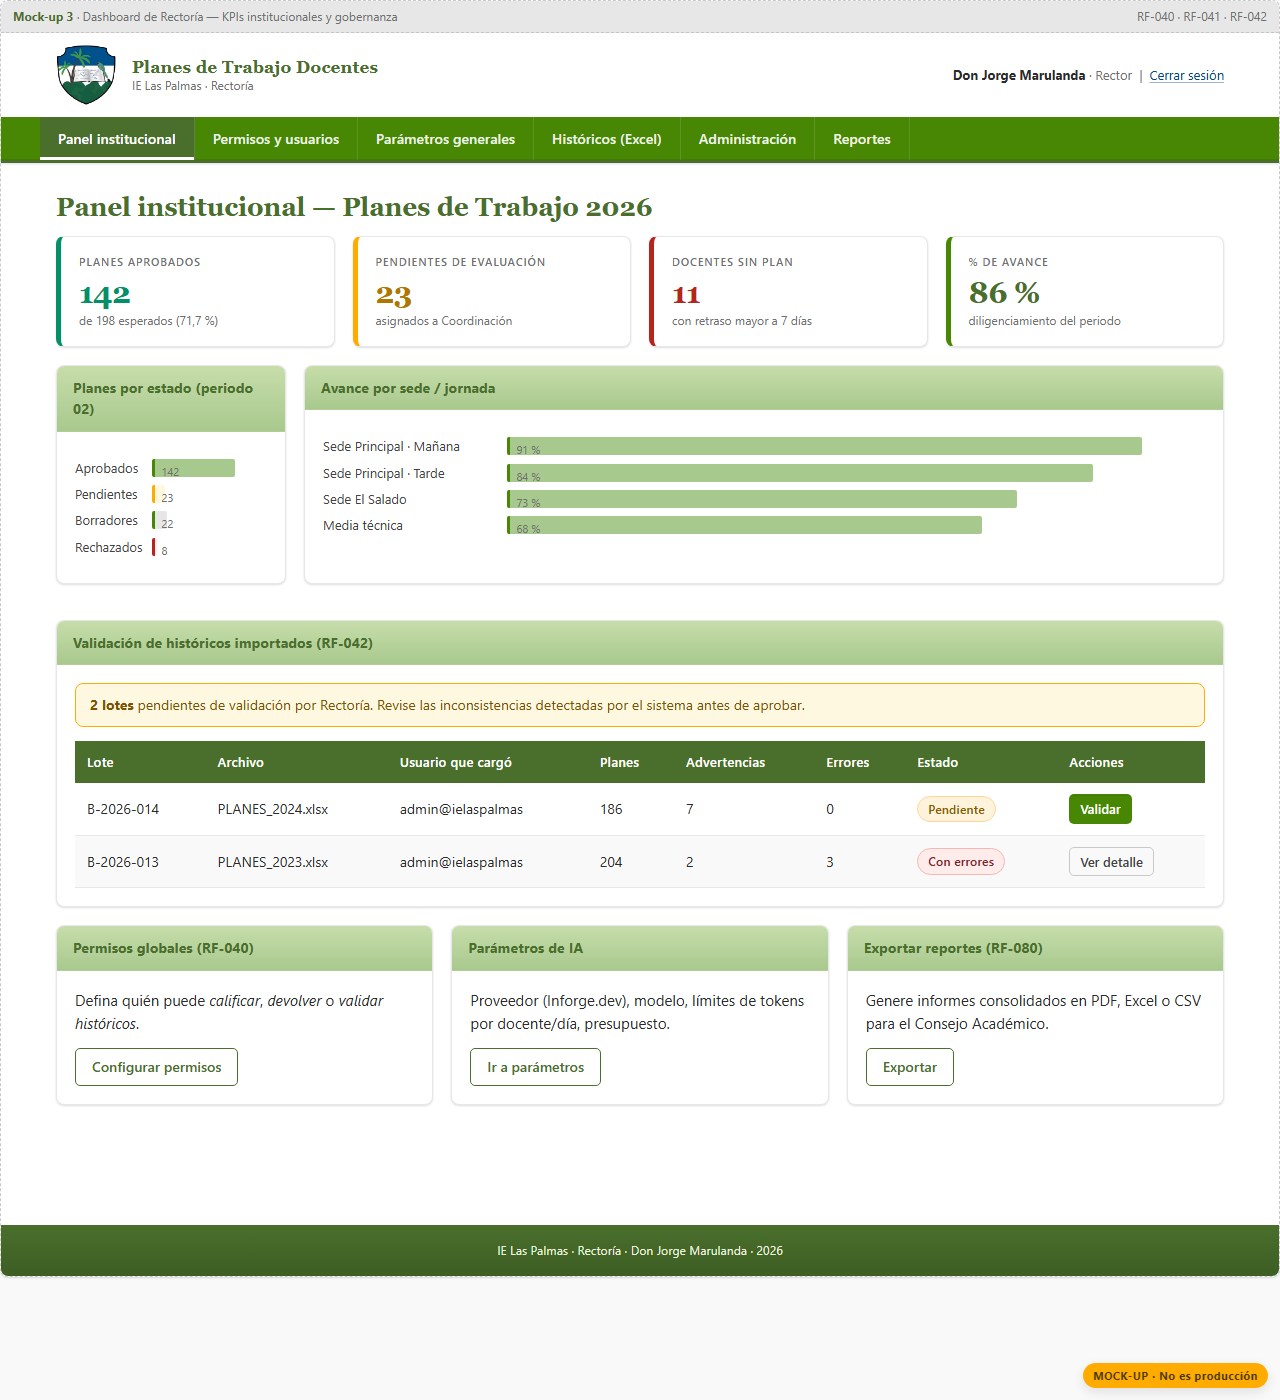
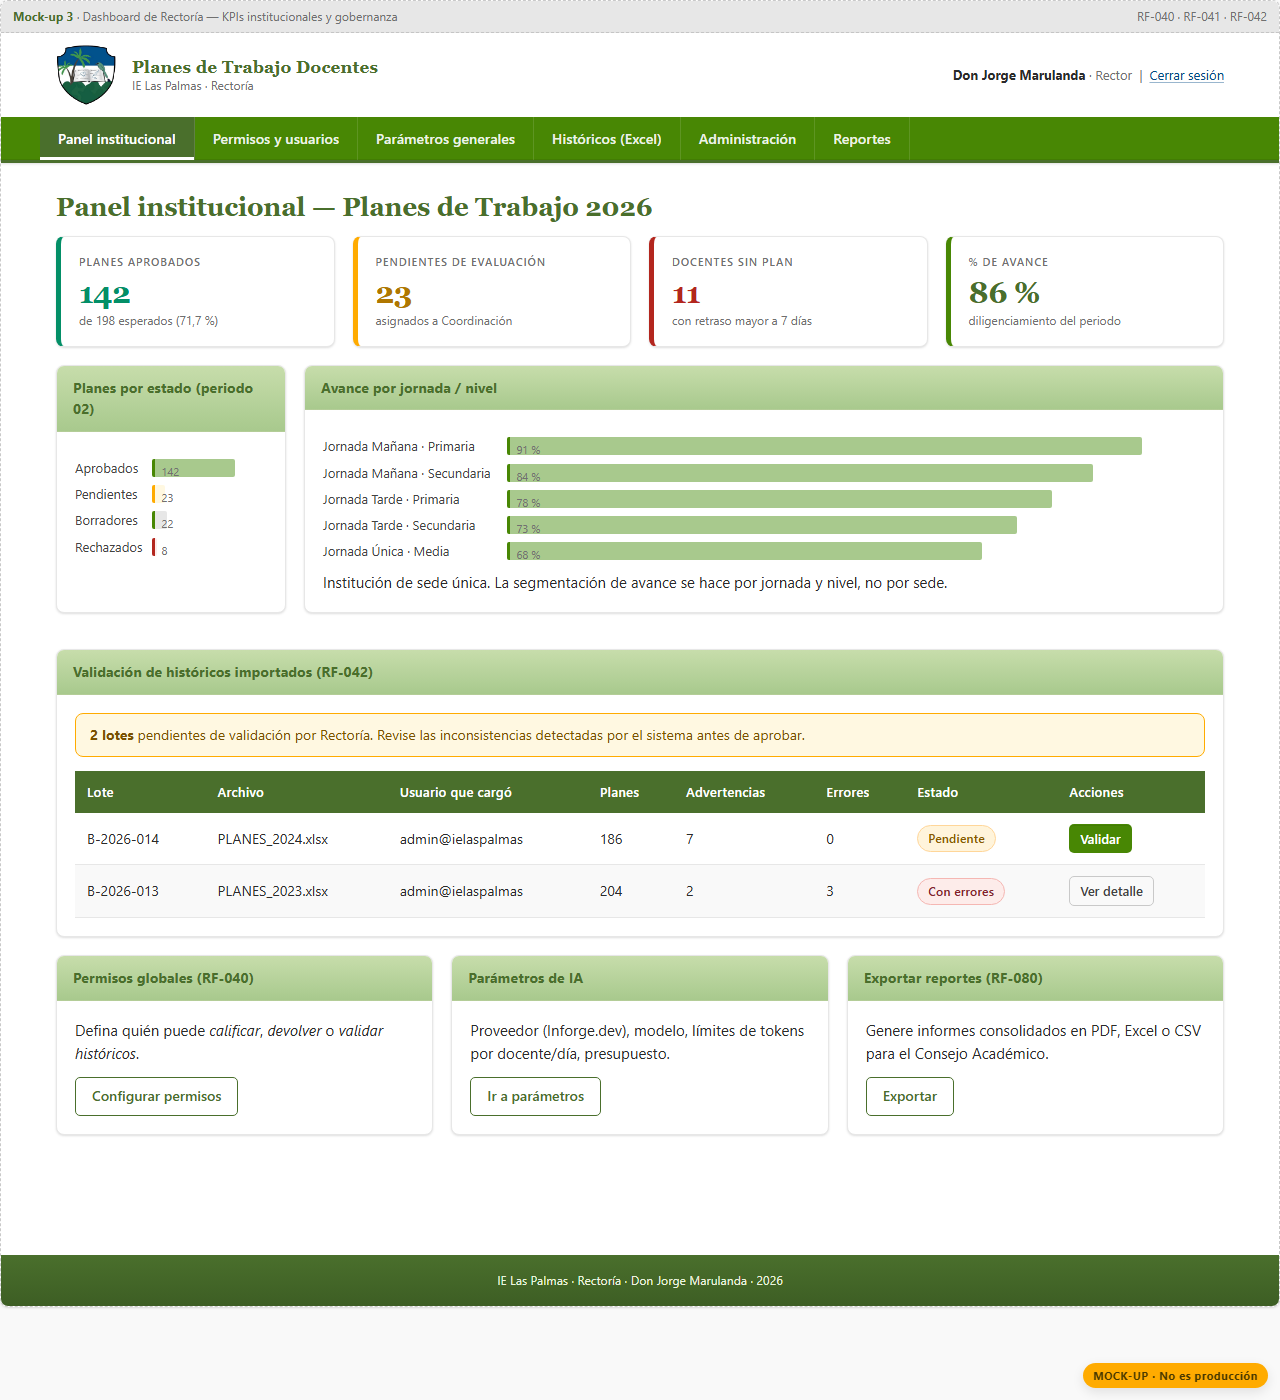
Corrige sede unica en Rectoria + estiliza inputs en tablas/DUA
- Dashboard Rectoria: reemplaza 'Avance por sede/jornada' (lista sedes
  inexistentes) por 'Avance por jornada/nivel' (sede unica, segmentacion
  por jornada y nivel)
- estilos-base.css: estilos globales para input/select/textarea fuera
  de .campo (tablas, celdas inline)
- ie-tabla: textarea min-height 56px, input text/number width fixed,
  btn-ia compacto
- Editor Plan: elimina estilos inline redundantes en tabla indicadores
- Checkbox DUA: accent-color verde + cursor pointer + label hit-area

Changed region(s): [[0.0312, 0.2764, 0.9688, 0.7986], [0.0, 0.86, 1.0, 0.9521]]

diff --git a/estilos-base.css b/estilos-base.css
@@ -320,6 +320,13 @@ a:hover { color: #003160; text-decoration-color: var(--ie-azul); }
 .ie-tabla tr:nth-child(even) td { background: var(--ie-gris-1); }
 .ie-tabla tbody tr { transition: background var(--transicion-rapida); }
 .ie-tabla tbody tr:hover td { background: var(--ie-azul-suave); }
+/* Inputs/textareas dentro de tablas: compactos y de ancho completo */
+.ie-tabla textarea { min-height: 56px; width: 100%; }
+.ie-tabla input[type="text"] { width: 100%; }
+.ie-tabla input[type="number"] { width: 72px; }
+.ie-tabla select { width: 100%; }
+/* Botones de IA dentro de tabla más pequeños */
+.ie-tabla .btn-ia { padding: 5px 9px; font-size: 12px; }
 
 /* ---------- Etiquetas de estado ---------- */
 .estado {
@@ -338,30 +345,46 @@ a:hover { color: #003160; text-decoration-color: var(--ie-azul); }
 .estado--pendiente  { background: #fff4db; color: #8a5a00; border-color: #ffd699; }
 
 /* ---------- Formularios ---------- */
-.campo { margin-bottom: 16px; }
-.campo label { display: block; font-weight: 600; margin-bottom: 5px; font-size: 14px; }
-.campo label .req { color: var(--ie-error); }
-.campo input[type="text"],
-.campo input[type="email"],
-.campo input[type="password"],
-.campo input[type="date"],
-.campo input[type="file"],
-.campo select,
-.campo textarea {
-  width: 100%;
+/* Estilos base globales para inputs/select/textarea (aplica también a los que están
+   en tablas, celdas y其它 contextos fuera de .campo) */
+input[type="text"],
+input[type="email"],
+input[type="password"],
+input[type="number"],
+input[type="date"],
+input[type="file"],
+select,
+textarea {
   padding: 9px 11px;
   border: 1px solid var(--ie-gris-3);
   border-radius: var(--radio-sm);
   font-family: inherit;
   font-size: 14px;
   background: #fff;
+  color: var(--ie-texto);
   transition: border-color var(--transicion-rapida), box-shadow var(--transicion-rapida);
 }
-.campo input:hover, .campo select:hover, .campo textarea:hover { border-color: var(--ie-gris-4); }
-.campo input:focus, .campo select:focus, .campo textarea:focus {
+input:hover, select:hover, textarea:hover { border-color: var(--ie-gris-4); }
+input:focus, select:focus, textarea:focus {
   border-color: var(--ie-azul);
   box-shadow: 0 0 0 3px rgba(0,72,132,.15);
   outline: none;
+}
+textarea { min-height: 84px; resize: vertical; }
+
+.campo { margin-bottom: 16px; }
+.campo label { display: block; font-weight: 600; margin-bottom: 5px; font-size: 14px; }
+.campo label .req { color: var(--ie-error); }
+/* Heredan ancho completo dentro de .campo */
+.campo input[type="text"],
+.campo input[type="email"],
+.campo input[type="password"],
+.campo input[type="number"],
+.campo input[type="date"],
+.campo input[type="file"],
+.campo select,
+.campo textarea {
+  width: 100%;
 }
 .campo textarea { min-height: 84px; resize: vertical; }
 .campo .ayuda { font-size: 12px; color: var(--ie-gris-4); margin-top: 5px; }
@@ -370,6 +393,17 @@ a:hover { color: #003160; text-decoration-color: var(--ie-azul); }
   position: absolute; right: 6px; top: 6px;
   display: flex; gap: 4px;
 }
+
+/* ---------- Checkboxes accesibles ---------- */
+input[type="checkbox"] {
+  width: 16px; height: 16px;
+  accent-color: var(--ie-verde-vivo);
+  cursor: pointer;
+  vertical-align: middle;
+  margin-right: 4px;
+}
+label > input[type="checkbox"] { margin-right: 5px; }
+label:has(input[type="checkbox"]) { cursor: pointer; display: inline-flex; align-items: center; gap: 2px; }
 
 /* ---------- Botón de IA (acceso rápido a asistente) ---------- */
 .btn-ia {

diff --git a/03-dashboard-rectoria.html b/03-dashboard-rectoria.html
@@ -84,18 +84,24 @@
         </div>
       </div>
       <div class="panel">
-        <div class="panel__encabezado">Avance por sede / jornada</div>
+        <div class="panel__encabezado">Avance por jornada / nivel</div>
         <div class="panel__cuerpo">
           <div class="grafico-barras">
-            <span class="grafico-barras__etiqueta">Sede Principal · Mañana</span>
+            <span class="grafico-barras__etiqueta">Jornada Mañana · Primaria</span>
             <div class="grafico-barras__barra" style="width:91%"><span>91 %</span></div>
-            <span class="grafico-barras__etiqueta">Sede Principal · Tarde</span>
+            <span class="grafico-barras__etiqueta">Jornada Mañana · Secundaria</span>
             <div class="grafico-barras__barra" style="width:84%"><span>84 %</span></div>
-            <span class="grafico-barras__etiqueta">Sede El Salado</span>
+            <span class="grafico-barras__etiqueta">Jornada Tarde · Primaria</span>
+            <div class="grafico-barras__barra" style="width:78%"><span>78 %</span></div>
+            <span class="grafico-barras__etiqueta">Jornada Tarde · Secundaria</span>
             <div class="grafico-barras__barra" style="width:73%"><span>73 %</span></div>
-            <span class="grafico-barras__etiqueta">Media técnica</span>
+            <span class="grafico-barras__etiqueta">Jornada Única · Media</span>
             <div class="grafico-barras__barra" style="width:68%"><span>68 %</span></div>
           </div>
+          <p class="ayuda" style="margin:10px 0 0">
+            Institución de sede única. La segmentación de avance se hace por jornada y nivel,
+            no por sede.
+          </p>
         </div>
       </div>
     </section>

diff --git a/05-editor-plan-aula.html b/05-editor-plan-aula.html
@@ -135,9 +135,9 @@
         <table class="ie-tabla">
           <thead><tr><th>Categoría</th><th>Indicador</th><th>%</th><th>IA</th></tr></thead>
           <tbody>
-            <tr><td>Conceptuales</td><td><input type="text" style="width:100%"></td><td><input type="number" value="23" style="width:60px"></td><td><button class="btn-ia">Propor</button></td></tr>
-            <tr><td>Procedimentales</td><td><input type="text" style="width:100%"></td><td><input type="number" value="23" style="width:60px"></td><td><button class="btn-ia">Propor</button></td></tr>
-            <tr><td>Actitudinales</td><td><input type="text" style="width:100%"></td><td><input type="number" value="23" style="width:60px"></td><td><button class="btn-ia">Propor</button></td></tr>
+            <tr><td>Conceptuales</td><td><input type="text"></td><td><input type="number" value="23"></td><td><button class="btn-ia">Propor</button></td></tr>
+            <tr><td>Procedimentales</td><td><input type="text"></td><td><input type="number" value="23"></td><td><button class="btn-ia">Propor</button></td></tr>
+            <tr><td>Actitudinales</td><td><input type="text"></td><td><input type="number" value="23"></td><td><button class="btn-ia">Propor</button></td></tr>
           </tbody>
         </table>
       </div>
